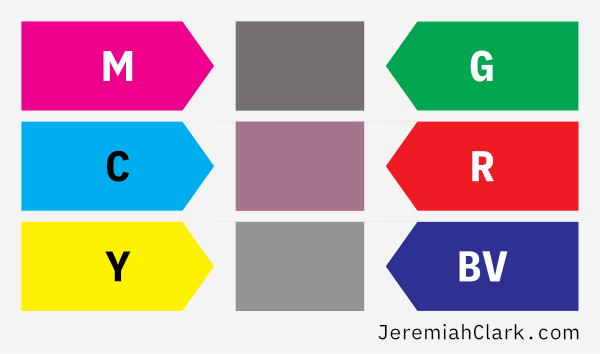
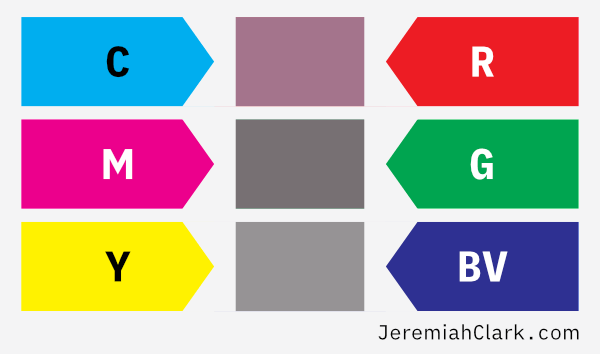
Fixed a few typos and fixed order of colors in mixing image

diff --git a/blog/20260925-Watercolor_2-Color.md b/blog/20260925-Watercolor_2-Color.md
@@ -423,7 +423,7 @@ I am not implying that this is the best palette or the one you should use. I jus
 - **Yellow-Green**—Van Gogh Permanent Yellowish Green (PY154+PG7)
 - **Violet**—Winsor & Newton Winsor Violet (Dioxazine) (PV23)
 
-> I don’t use wither of these often, but both open up colors that I haven’t been able to mix in any other way.
+> I don’t use either of these often, but both open up colors that I haven’t been able to reliably mix in any other way.
 
 **Black Tones**
 
